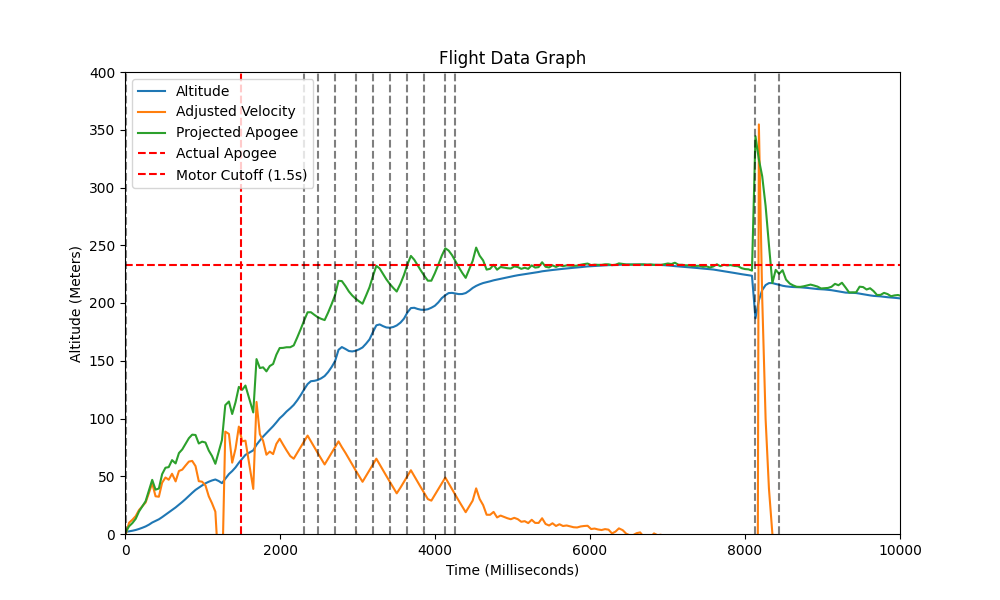
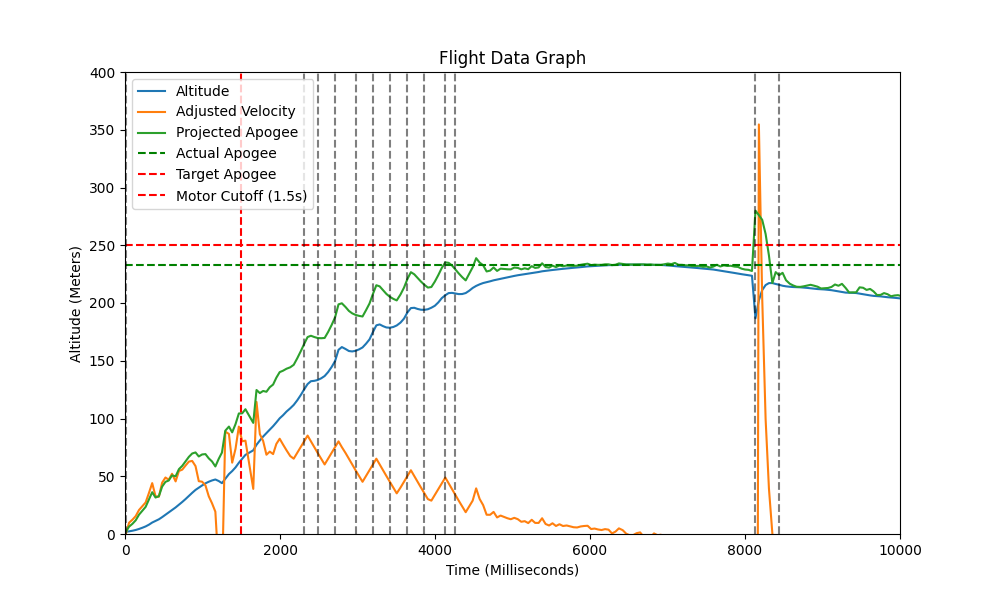
asdbj

Changed region(s): [[0.124, 0.39, 0.589, 0.87], [0.124, 0.27, 0.31, 0.36], [0.713, 0.24, 0.806, 0.48]]

diff --git a/Airbrake_Files/Python_Data_Analysis/test-data-grapher.py b/Airbrake_Files/Python_Data_Analysis/test-data-grapher.py
@@ -3,8 +3,9 @@ import pandas as pd
 import matplotlib.pyplot as plt
 
 actual_apogee = 233  # replace with actual apogee of flight in m
-k = 0.015 # change this (basically adjusting drag coefficient, the higher it is the lower projected apogee will be)
-mass = 0.641
+target_apogee = 250  # replace with actual apogee of flight in m
+k = 0.026 # change this (basically adjusting drag coefficient, the higher it is the lower projected apogee will be)
+mass = 0.607
 
 def calculate_projected_apogee(altitude, velocity):
     return altitude + (mass / (2 * k)) * np.log((k * velocity**2) / (mass * 9.8) + 1)
@@ -36,7 +37,8 @@ plt.figure(figsize=(10, 6))
 plt.plot(df['Time'], df['Altitude'], label='Altitude')
 plt.plot(df['Time'], df['Adjusted Velocity'], label='Adjusted Velocity')
 plt.plot(df['Time'], df['Projected Apogee'], label='Projected Apogee')
-plt.axhline(y=actual_apogee, color='r', linestyle='--', label='Actual Apogee')
+plt.axhline(y=actual_apogee, color='g', linestyle='--', label='Actual Apogee')
+plt.axhline(y=target_apogee, color='r', linestyle='--', label='Target Apogee')
 plt.axvline(x=1500, color='r', linestyle='--', label='Motor Cutoff (1.5s)')
 
 deploy_changes = df[df['isDeployed'].diff() != 0]
